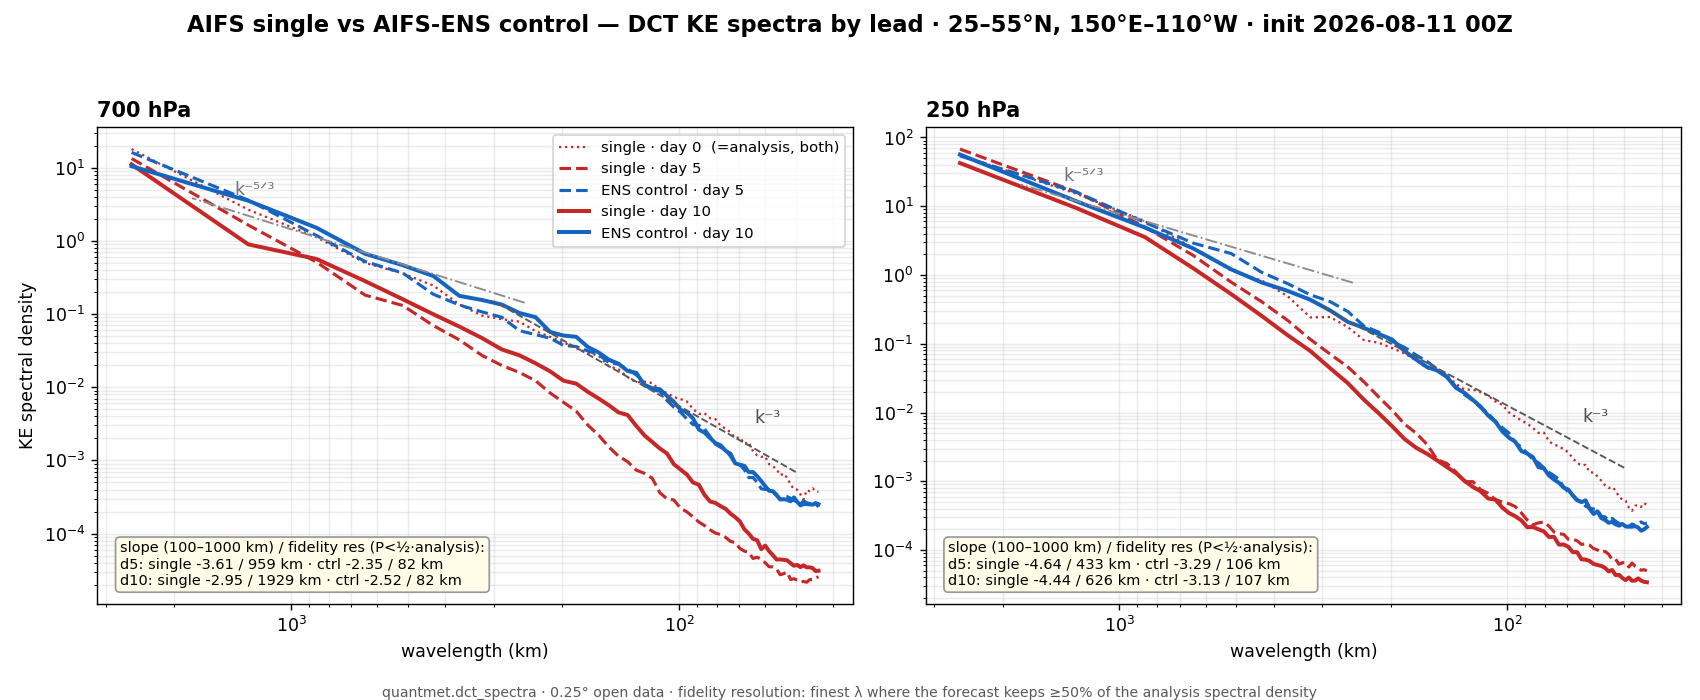
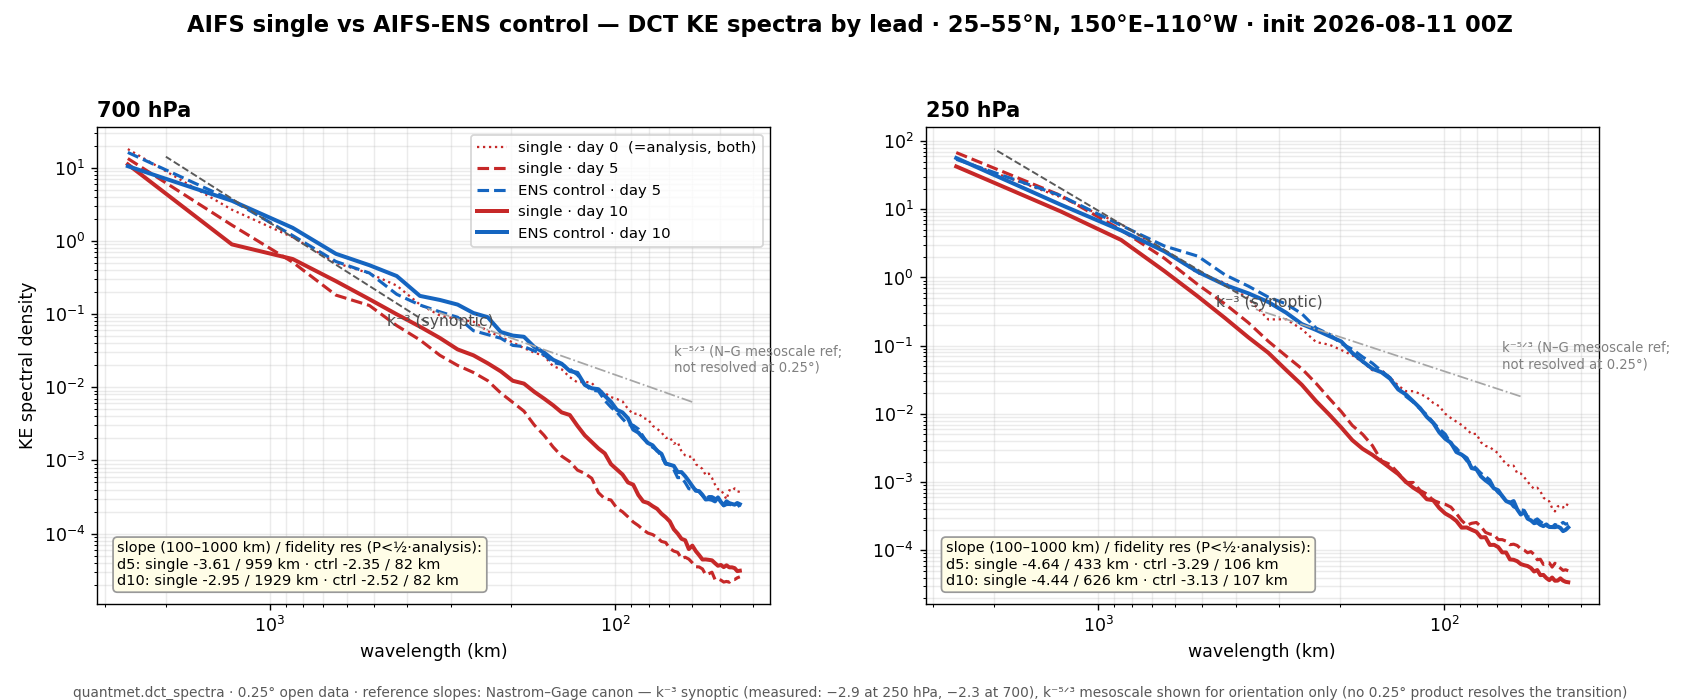
Case study: canonical Nastrom-Gage slope placement; -5/3 explicitly marked as unresolved reference at 0.25 deg

diff --git a/examples/aifs_spectral_fidelity/README.md b/examples/aifs_spectral_fidelity/README.md
@@ -39,6 +39,12 @@ the precipitation fields:
 
 ![panels](tt_compare_d05.png)
 
+A note on the reference slopes: the Nastrom–Gage canon puts k⁻³ at synoptic
+scales and k⁻⁵/³ in the mesoscale, but **no 0.25° product resolves the
+mesoscale transition** — the measured synoptic slopes here are −2.9 (250 hPa)
+and −2.3 (700 hPa), and everything below ~150 km is dissipation tail. The
+−5/³ guide is drawn for orientation only.
+
 Practical corollaries: past ~a week, read a single-AIFS chart as a smoothed
 consensus rather than a weather realization; and any diagnostic quadratic in
 the fields (E–P flux, wave-activity flux, eddy statistics) should be computed
